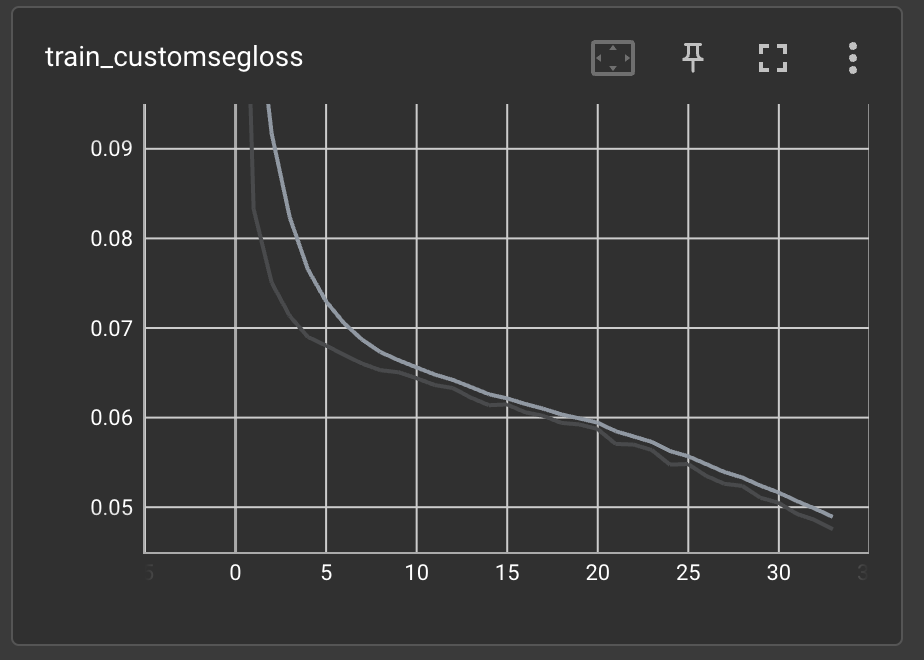
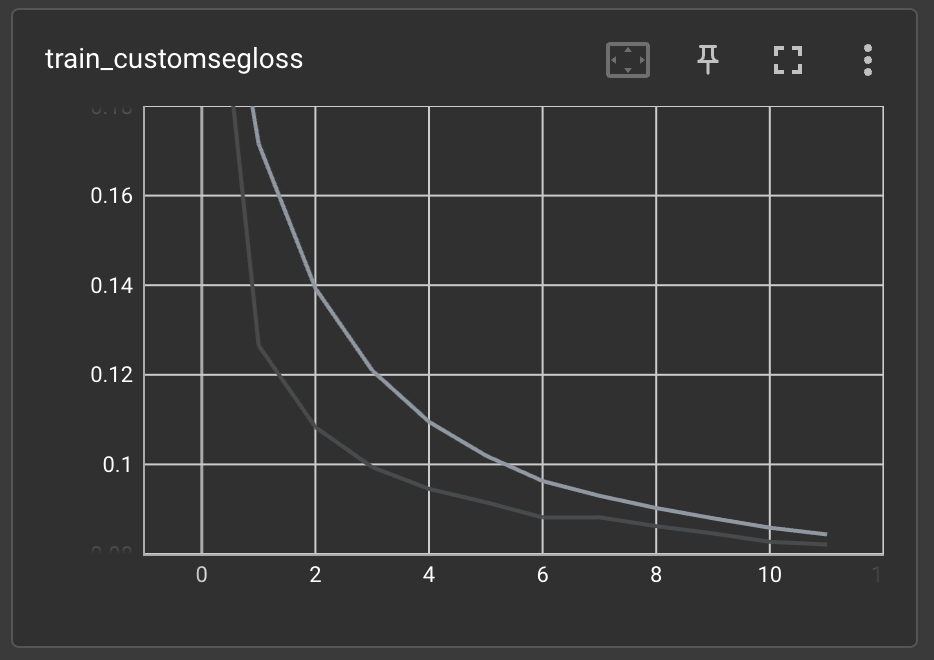
fixed loss and metric, updated images

diff --git a/documentation/assets/Example: training an external model.md b/documentation/assets/Example: training an external model.md
@@ -464,12 +464,23 @@ with it using SuperGradients.
 
 Similar to using an external model, the custom loss function's class must inherit from `torch.nn.Module`. The 
 `forward()` function's first parameter needs to be the predictions tensor and the second parameter needs to be the
-targets tensor.
+target tensor.
 
 ```
 import torch
 import torch.nn as nn
-from torchmetrics import JaccardIndex
+
+
+class CustomIoU(torch.nn.Module):
+    def __init__(self):
+        super(CustomIoU, self).__init__()
+
+    def forward(self, preds, target):
+        intersection = torch.sum(target * preds)
+        union = torch.sum(target) + torch.sum(preds) - intersection + 1e-5
+        iou = intersection / union
+
+        return iou
 
 
 class CustomSegLoss(torch.nn.Module):
@@ -480,7 +491,7 @@ class CustomSegLoss(torch.nn.Module):
         self.iou_weight = iou_weight
 
         self.bce_loss = nn.BCELoss()
-        self.iou_func = JaccardIndex(num_classes=2)
+        self.iou_func = CustomIoU()
 
     def forward(self, preds, target):
 
@@ -490,12 +501,14 @@ class CustomSegLoss(torch.nn.Module):
         return self.bce_weight*bce_loss + self.iou_weight*iou_loss
 ```
 
-Notice that here the BCE loss term is obtained simply by using PyTorch's `BCELoss()`. To compute the IoU score, or
-the Jaccard Index, we use torchmetric's `JaccardIndex`. To compute the IoU, the pixel values in both images should
-be binary, i.e., 0's and 1's. Since in the model's forward function a sigmoid function is already applied to the
-output, we only need to binarize both the predictions and the target tensors with a threshold of 0.5 (remember, we are 
-using **soft** masks). When measuring segmentation performance, higher IoU is better. Since IoU score is a number 
-in [0, 1], we simply compute `IoU loss = 1 - IoU` to make it a valid loss function for gradient-descent optimization.
+Notice that here the BCE loss term is obtained simply by using PyTorch's `BCELoss()`. To compute the IoU score, we 
+have implemented an auxiliary class `CustomIoU`, which implements a naive, differentiable IoU function. Note that 
+in binary segmentation tasks, we are usually interested only in the foreground IoU. Therefore, `CustomIoU` disregards
+the background IoU. To compute the IoU, the pixel values in both images should be binary, i.e., 0's and 1's. 
+Since in the model's forward function a sigmoid function is already applied to the output, we only need to binarize 
+both the predictions and the target tensors with a threshold of 0.5 (remember, we are using **soft** masks). When 
+measuring segmentation performance, higher IoU is better. Since IoU score is a number in [0, 1], we simply compute 
+`IoU loss = 1 - IoU` to make it a valid loss function for gradient-descent optimization.
 
 The overall loss is a weighted sum of the BCE and the IoU loss terms, with weights `bce_weight` and `iou_weight`,
 respectively. 
@@ -513,28 +526,33 @@ We note that SuperGradients provides many built-in metrics, including variants o
 we aim to show the ease at which we can incorporate external metrics into our pipeline. SuperGradients supports any 
 metric of type `torchmetrics.Metric`.
 
-The metric we will use is torchmetrics' `JaccardIndex`, which was also used to implement our loss function. However,
-recall that we use soft masks. 
+The metric we will use is torchmetrics' `JaccardIndex`. However, recall that we use soft masks. 
 [JaccardIndex](https://torchmetrics.readthedocs.io/en/stable/classification/jaccard_index.html) requires the target
-tensor's elements to be integers. Therefore, we will need to modify it a bit. For more details about implementing a 
-custom metric using torchmetrics, see [here](https://torchmetrics.readthedocs.io/en/stable/pages/implement.html).
+tensor's elements to be integers. Also, as noted in the previous section, since this is a binary segmentation 
+task, we are interested in the foreground IoU. Therefore, we will need to modify the metric a bit. For more details 
+about implementing a custom metric using torchmetrics, see 
+[here](https://torchmetrics.readthedocs.io/en/stable/pages/implement.html).
 
 ```
 class SoftIoU(JaccardIndex):
-    def __init__(self, *args, **kwargs):
-        super().__init__(*args, **kwargs)
+    def __init__(self, **kwargs):
+        super().__init__(reduction='none', **kwargs)
 
     def update(self, preds: torch.Tensor, target: torch.Tensor):
         target = torch.gt(target, 0.5).long()
         super().update(preds, target)
+
+    def compute(self):
+        return super().compute()[1]
 ```
 
-We have defined our `SoftIoU` class which inherits from `JaccardIndex`. The only modification we introduced to 
-`JaccardIndex` is that now the target tensor is binarized with a threshold of 0.5:
+We have defined our `SoftIoU` class which inherits from `JaccardIndex`. The only modifications we introduced to 
+`JaccardIndex` are:
 
-```
-target = torch.gt(target, 0.5).long()
-```
+1. The target tensor is binarized with a threshold of 0.5: `target = torch.gt(target, 0.5).long()`
+2. To get the IoU of the foreground alone, we set `reduction='none'` in the `__init__` function. This means that
+instead of computing the mean of the background and foreground IoUs, both values are returned, and in the `compute()`
+function we only take the second element, which corresponds to the foreground.
 
 Our custom metric is now ready to use with our training pipeline.
 
@@ -631,18 +649,18 @@ trainer.train(model=model,
 The training progress will be printed to the screen:
 
 ```
-[2023-02-05 15:25:58] INFO - sg_trainer.py - Started training for 100 epochs (0/99)
+[2023-02-06 11:44:35] INFO - sg_trainer.py - Started training for 100 epochs (0/99)
 
-Train epoch 0: 100%|██████████| 3443/3443 [19:16<00:00,  2.98it/s, CustomSegLoss=1.24, SoftIoU=0.914, gpu_mem=1.81]
+Train epoch 0: 100%|██████████| 3443/3443 [19:16<00:00,  2.98it/s, CustomSegLoss=0.24, SoftIoU=0.9, gpu_mem=1.81]
 Validation epoch 0: 100%|██████████| 431/431 [00:42<00:00, 10.23it/s]
 ===========================================================
 SUMMARY OF EPOCH 0
 ├── Training
-│   ├── Customsegloss = 1.2422
-│   └── Softiou = 0.9136
+│   ├── Customsegloss = 0.2466
+│   └── Softiou = 0.9
 └── Validation
-    ├── Customsegloss = 1.2342
-    └── Softiou = 0.9464
+    ├── Customsegloss = 0.1367
+    └── Softiou = 0.9483
 
 ===========================================================
 ```
@@ -653,21 +671,21 @@ is displayed, and in later epochs, a comparison with the previous epochs is prov
 
 ```
 ===========================================================
-SUMMARY OF EPOCH 4
+SUMMARY OF EPOCH 5
 ├── Training
-│   ├── Customsegloss = 1.2301
-│   │   ├── Best until now = 1.2303 (↘ -0.0003)
-│   │   └── Epoch N-1      = 1.2303 (↘ -0.0003)
-│   └── Softiou = 0.9585
-│       ├── Best until now = 0.9136 (↗ 0.0449)
-│       └── Epoch N-1      = 0.9575 (↗ 0.001)
+│   ├── Customsegloss = 0.0915
+│   │   ├── Best until now = 0.0945 (^[[32m↘ -0.003^[[0m)
+│   │   └── Epoch N-1      = 0.0945 (^[[32m↘ -0.003^[[0m)
+│   └── Softiou = 0.9651
+│       ├── Best until now = 0.9    (↗ 0.0651^[[0m)
+│       └── Epoch N-1      = 0.9639 (↗ 0.0011^[[0m)
 └── Validation
-    ├── Customsegloss = 1.228
-    │   ├── Best until now = 1.2281 (↘ -0.0001)
-    │   └── Epoch N-1      = 1.2281 (↘ -0.0001)
-    └── Softiou = 0.9639
-        ├── Best until now = 0.9464 (↗ 0.0175)
-        └── Epoch N-1      = 0.9617 (↗ 0.0022)
+    ├── Customsegloss = 0.0789
+    │   ├── Best until now = 0.0924 (^[[32m↘ -0.0135^[[0m)
+    │   └── Epoch N-1      = 0.0924 (^[[32m↘ -0.0135^[[0m)
+    └── Softiou = 0.9702
+        ├── Best until now = 0.9483 (↗ 0.0219^[[0m)
+        └── Epoch N-1      = 0.9657 (↗ 0.0045^[[0m)
 
 ===========================================================
 ```
